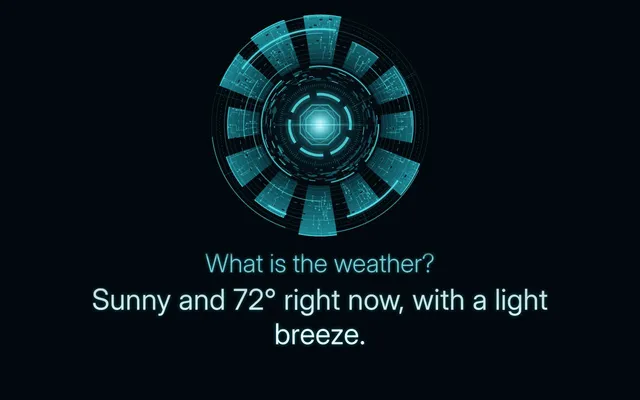
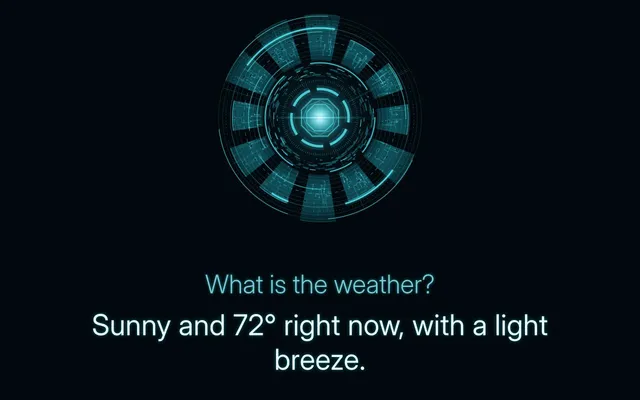
Fit the Jarvis skin to small screens and soften its stretched flaps (#937)
The reactor now leaves room under it for the command and three lines
of answer at the chosen text size, so a small screen such as the Echo
Show 8 shows a whole answer, and Jarvis's chat sits closer to the
bottom since it has no bar. With every Conversation toggle off the
reactor fills the screen on its own, without the thinking dots, and
docked it floats alone without a bubble. A flap fades past its rest
length and its rim dims as it stretches, so a loud voice no longer
ends the flaps in hard edges.

Changed region(s): [[0.3438, 0.03, 0.6562, 0.6], [0.125, 0.63, 0.875, 0.93]]

diff --git a/app/lib/ui/assist/art_jarvis.dart b/app/lib/ui/assist/art_jarvis.dart
@@ -22,7 +22,7 @@ class JarvisArt extends StatefulWidget {
     required this.clock,
     this.compact = false,
     this.countdown,
-    this.inset = EdgeInsets.zero,
+    this.box,
   });
 
   final ArtMode mode;
@@ -41,9 +41,9 @@ class JarvisArt extends StatefulWidget {
   /// with it.
   final ValueListenable<double>? countdown;
 
-  /// Full screen, the room a result panel takes beside the chat: the
-  /// reactor centers over the chat's column instead ([jarvisReactor]).
-  final EdgeInsets inset;
+  /// Full screen, where the reactor goes, out to the blocks' full stretch
+  /// ([jarvisReactor]). Null fills the widget.
+  final Rect? box;
 
   @override
   State<JarvisArt> createState() => _JarvisArtState();
@@ -93,13 +93,27 @@ class _JarvisArtState extends State<JarvisArt> {
 /// How far the blocks reach at full stretch, past the outer ring.
 const jarvisReach = 1.1;
 
-/// The full screen reactor's square, out to the blocks' full stretch: at
-/// the top of the screen, centered over the chat's column (the screen less
-/// [inset]). The chat starts under it, so the text never crosses the
-/// reactor, even with the blocks pushed all the way out.
-Rect jarvisReactor(Size size, EdgeInsets inset) {
+/// The full screen reactor's square, out to the blocks' full stretch,
+/// centered over the chat's column (the screen less [inset]). It sits at
+/// the top and leaves [chat] under it, so the text never crosses the
+/// reactor, even with the blocks pushed all the way out. With no chat it
+/// takes the whole screen, centered.
+Rect jarvisReactor(Size size, EdgeInsets inset, {double chat = 0}) {
   final area = inset.deflateRect(Offset.zero & size);
-  final side = math.max(0.0, math.min(area.width * 0.9, size.height * 0.56));
+  if (chat <= 0) {
+    final side = math.max(0.0, math.min(area.width, size.height) * 0.92);
+    return Rect.fromCenter(
+      center: Offset(area.center.dx, size.height / 2),
+      width: side,
+      height: side,
+    );
+  }
+  final wanted = math.min(area.width * 0.9, size.height * 0.56);
+  final fits = size.height - 24 - 16 - chat;
+  final side = math.max(
+    0.0,
+    math.max(math.min(area.width, size.height) * 0.3, math.min(wanted, fits)),
+  );
   return Rect.fromCenter(
     center: Offset(area.center.dx, 24 + side / 2),
     width: side,
@@ -336,7 +350,8 @@ class _JarvisPainter extends CustomPainter {
 
   /// The blocks' fill as an image of [px] square out to [_textureReach]:
   /// dark at the ring's inner edge, lit toward the reach of a loud voice,
-  /// with the circuit over it. A block drawn with it shows the texture
+  /// with the circuit over it. Past a block's rest length it fades, so a
+  /// stretched block's tip goes soft and a block at rest stays solid. A block drawn with it shows the texture
   /// under its own shape, so the blocks need no clipping.
   static ui.Image bake(int px) {
     final recorder = ui.PictureRecorder();
@@ -344,6 +359,7 @@ class _JarvisPainter extends CustomPainter {
       ..scale(px / (2 * _textureReach))
       ..translate(_textureReach, _textureReach);
     const tip = 1000 * jarvisReach;
+    canvas.saveLayer(null, Paint());
     canvas.drawCircle(
       Offset.zero,
       _textureReach,
@@ -360,6 +376,7 @@ class _JarvisPainter extends CustomPainter {
           [0, _blockInner / tip, (_blockInner + _blockRest) / tip, 1],
         ),
     );
+    final rest = _blockInner + _blockRest + 10;
     final (traces, pads, chips, specks) = _circuit;
     canvas
       ..drawPath(specks, Paint()..color = const Color(0x4D7FE9F2))
@@ -367,6 +384,19 @@ class _JarvisPainter extends CustomPainter {
       ..drawPath(chips, Paint()..color = const Color(0xFF06262C))
       ..drawPath(chips, _stroke(const Color(0x993FC4D0), 3))
       ..drawPath(pads, Paint()..color = const Color(0xB35BD8E2));
+    canvas.drawCircle(
+      Offset.zero,
+      _textureReach,
+      Paint()
+        ..blendMode = BlendMode.dstIn
+        ..shader = ui.Gradient.radial(
+          Offset.zero,
+          tip,
+          const [Color(0xFF000000), Color(0xFF000000), Color(0x1F000000)],
+          [0, rest / tip, 1],
+        ),
+    );
+    canvas.restore();
     final picture = recorder.endRecording();
     final image = picture.toImageSync(px, px);
     picture.dispose();
@@ -481,7 +511,7 @@ class _JarvisPainter extends CustomPainter {
     final compact = w.compact;
     // The box holds the blocks at full stretch: the outer ring sits well
     // inside it.
-    final box = compact ? Offset.zero & size : jarvisReactor(size, w.inset);
+    final box = w.box ?? Offset.zero & size;
     final radius = math.min(box.width, box.height) / 2 / jarvisReach;
     if (radius <= 0) return;
     final scale = radius / 1000;
@@ -559,7 +589,8 @@ class _JarvisPainter extends CustomPainter {
           sweep,
           false,
           _stroke(
-            _cyan.withValues(alpha: (0.6 + 0.4 * state._reach[i]) * a),
+            // The rim softens as the block stretches.
+            _cyan.withValues(alpha: (1 - 0.8 * state._reach[i]) * a),
             8 * k,
           ),
         );

diff --git a/app/lib/ui/assist/assist_overlay.dart b/app/lib/ui/assist/assist_overlay.dart
@@ -430,7 +430,7 @@ class _AssistOverlayState extends State<AssistOverlay>
                 reactive: reactive,
                 level: _glide,
                 clock: _clock,
-                inset: _beside(context, view),
+                box: _jarvisBox(context, skin, scale, view, reactive),
               ),
             ),
           ),
@@ -444,13 +444,53 @@ class _AssistOverlayState extends State<AssistOverlay>
         if (view.phase == AssistPhase.announcement)
           _announcement(context, skin, palette, scale, view)
         else ...[
-          _chat(context, skin, palette, scale, view, reactive),
+          // With the whole conversation hidden, Jarvis shows only its
+          // reactor: no thinking dots either.
+          if (skin.art != SkinArt.jarvis || !_conversationHidden)
+            _chat(context, skin, palette, scale, view, reactive),
           if (primaryResult(view.results) case final result?)
             _panel(context, skin, dark, scale, result),
         ],
         if (_lightbox case (final kind, final value))
           Positioned.fill(child: _lightboxView(context, kind, value)),
       ],
+    );
+  }
+
+  /// Every Conversation toggle is off.
+  bool get _conversationHidden =>
+      !c.settings.get(defs.voiceShowCommand) &&
+      !c.settings.get(defs.voiceShowAnswer) &&
+      !c.settings.get(defs.voiceShowTools);
+
+  /// Jarvis's full screen reactor: room kept under it for the command and
+  /// three lines of answer at the chosen text size, so a small screen still
+  /// reads a whole answer, or the whole screen with the conversation hidden.
+  Rect _jarvisBox(
+    BuildContext context,
+    AssistSkin skin,
+    double scale,
+    AssistView view,
+    bool reactive,
+  ) {
+    final settings = c.settings;
+    final scaler = MediaQuery.textScalerOf(context);
+    double line(double size) => scaler.scale(size * scale) * skin.lineHeight;
+    final command = settings.get(defs.voiceShowCommand);
+    final answer = settings.get(defs.voiceShowAnswer);
+    var chat = 0.0;
+    if (command) chat += line(skin.userSize) + 8 + skin.gap;
+    if (answer) chat += 3 * line(skin.answerSize) + 8;
+    if (!command && !answer && settings.get(defs.voiceShowTools)) {
+      chat += line(skin.toolSize) + 8;
+    }
+    if (chat > 0) {
+      chat += reactive ? skin.chatBottomReactive : skin.chatBottom;
+    }
+    return jarvisReactor(
+      MediaQuery.sizeOf(context),
+      _beside(context, view),
+      chat: chat,
     );
   }
 
@@ -610,10 +650,14 @@ class _AssistOverlayState extends State<AssistOverlay>
     final room = size.height - padding.vertical - 40 - reactorSide - reactorGap;
     final bubbleMax = math.min((size.height * 0.4).clamp(140.0, 360.0), room);
     final jarvis = skin.art == SkinArt.jarvis;
+    // With the whole conversation hidden it floats alone, no bubble.
+    final alone = jarvis && _conversationHidden;
     final card = jarvis
         ? SizedBox(
             width: width,
-            height: reactorSide + reactorGap + math.max(0.0, bubbleMax),
+            height: alone
+                ? reactorSide
+                : reactorSide + reactorGap + math.max(0.0, bubbleMax),
             child: Column(
               spacing: reactorGap,
               children: [
@@ -628,7 +672,7 @@ class _AssistOverlayState extends State<AssistOverlay>
                     countdown: c.voice.dockCountdown,
                   ),
                 ),
-                if (lines.isNotEmpty && bubbleMax > 0)
+                if (!alone && lines.isNotEmpty && bubbleMax > 0)
                   AnimatedSize(
                     duration: const Duration(milliseconds: 250),
                     curve: Curves.ease,
@@ -1066,7 +1110,7 @@ class _AssistOverlayState extends State<AssistOverlay>
             size.height * (panelTop + panelMaxPortrait) + 16,
           )
         : underArt
-        ? jarvisReactor(size, _beside(context, view)).bottom + 16
+        ? _jarvisBox(context, skin, scale, view, reactive).bottom + 16
         : skin.chatTop;
 
     /// How tall the lines above a turn's answer stand: its command and

diff --git a/app/lib/ui/assist/assist_skins.dart b/app/lib/ui/assist/assist_skins.dart
@@ -665,6 +665,9 @@ final assistSkins = <AssistSkin>[
     art: SkinArt.jarvis,
     font: 'Inter',
     blur: 0,
+    // No bar under the chat.
+    chatBottom: 40,
+    chatBottomReactive: 40,
     centered: true,
     userWeight: FontWeight.w300,
     toolWeight: FontWeight.w300,

diff --git a/CHANGELOG.md b/CHANGELOG.md
@@ -5,7 +5,7 @@ All notable changes to Kiosk Satellite are documented here. Full release notes f
 ## Unreleased
 
 ### Added
-- **A Jarvis skin for Voice Satellite.** The new **Jarvis** skin draws a holographic HUD reactor in the style of Iron Man's assistant (#937). Its rings turn around an octagonal core while listening, a scanner sweeps it while thinking, and a ring of circuit-textured blocks pushes out with your voice and the answer when the reactive bar is on. Full screen, the reactor sits at the top and the conversation runs under it. Docked, the reactor floats above the bubble with the command, tool lines and answer, stays put as the bubble grows, and its outer ring unwinds as the conversation ends.
+- **A Jarvis skin for Voice Satellite.** The new **Jarvis** skin draws a holographic HUD reactor in the style of Iron Man's assistant (#937). Its rings turn around an octagonal core while listening, a scanner sweeps it while thinking, and a ring of circuit-textured blocks pushes out with your voice and the answer when the reactive bar is on. Full screen, the reactor sits at the top and the conversation runs under it, sized to leave room for a few lines of answer at your text size. With every **Conversation** toggle off, the reactor fills the screen on its own. Docked, the reactor floats above the bubble with the command, tool lines and answer, stays put as the bubble grows, and its outer ring unwinds as the conversation ends.
 - **Scheduled screensavers have an ESPHome switch.** A new **Screensaver schedule** switch turns scheduled screensavers on or off from Home Assistant, so an automation can pause the schedule for a party or a vacation and bring it back after.
 
 ### Changed
